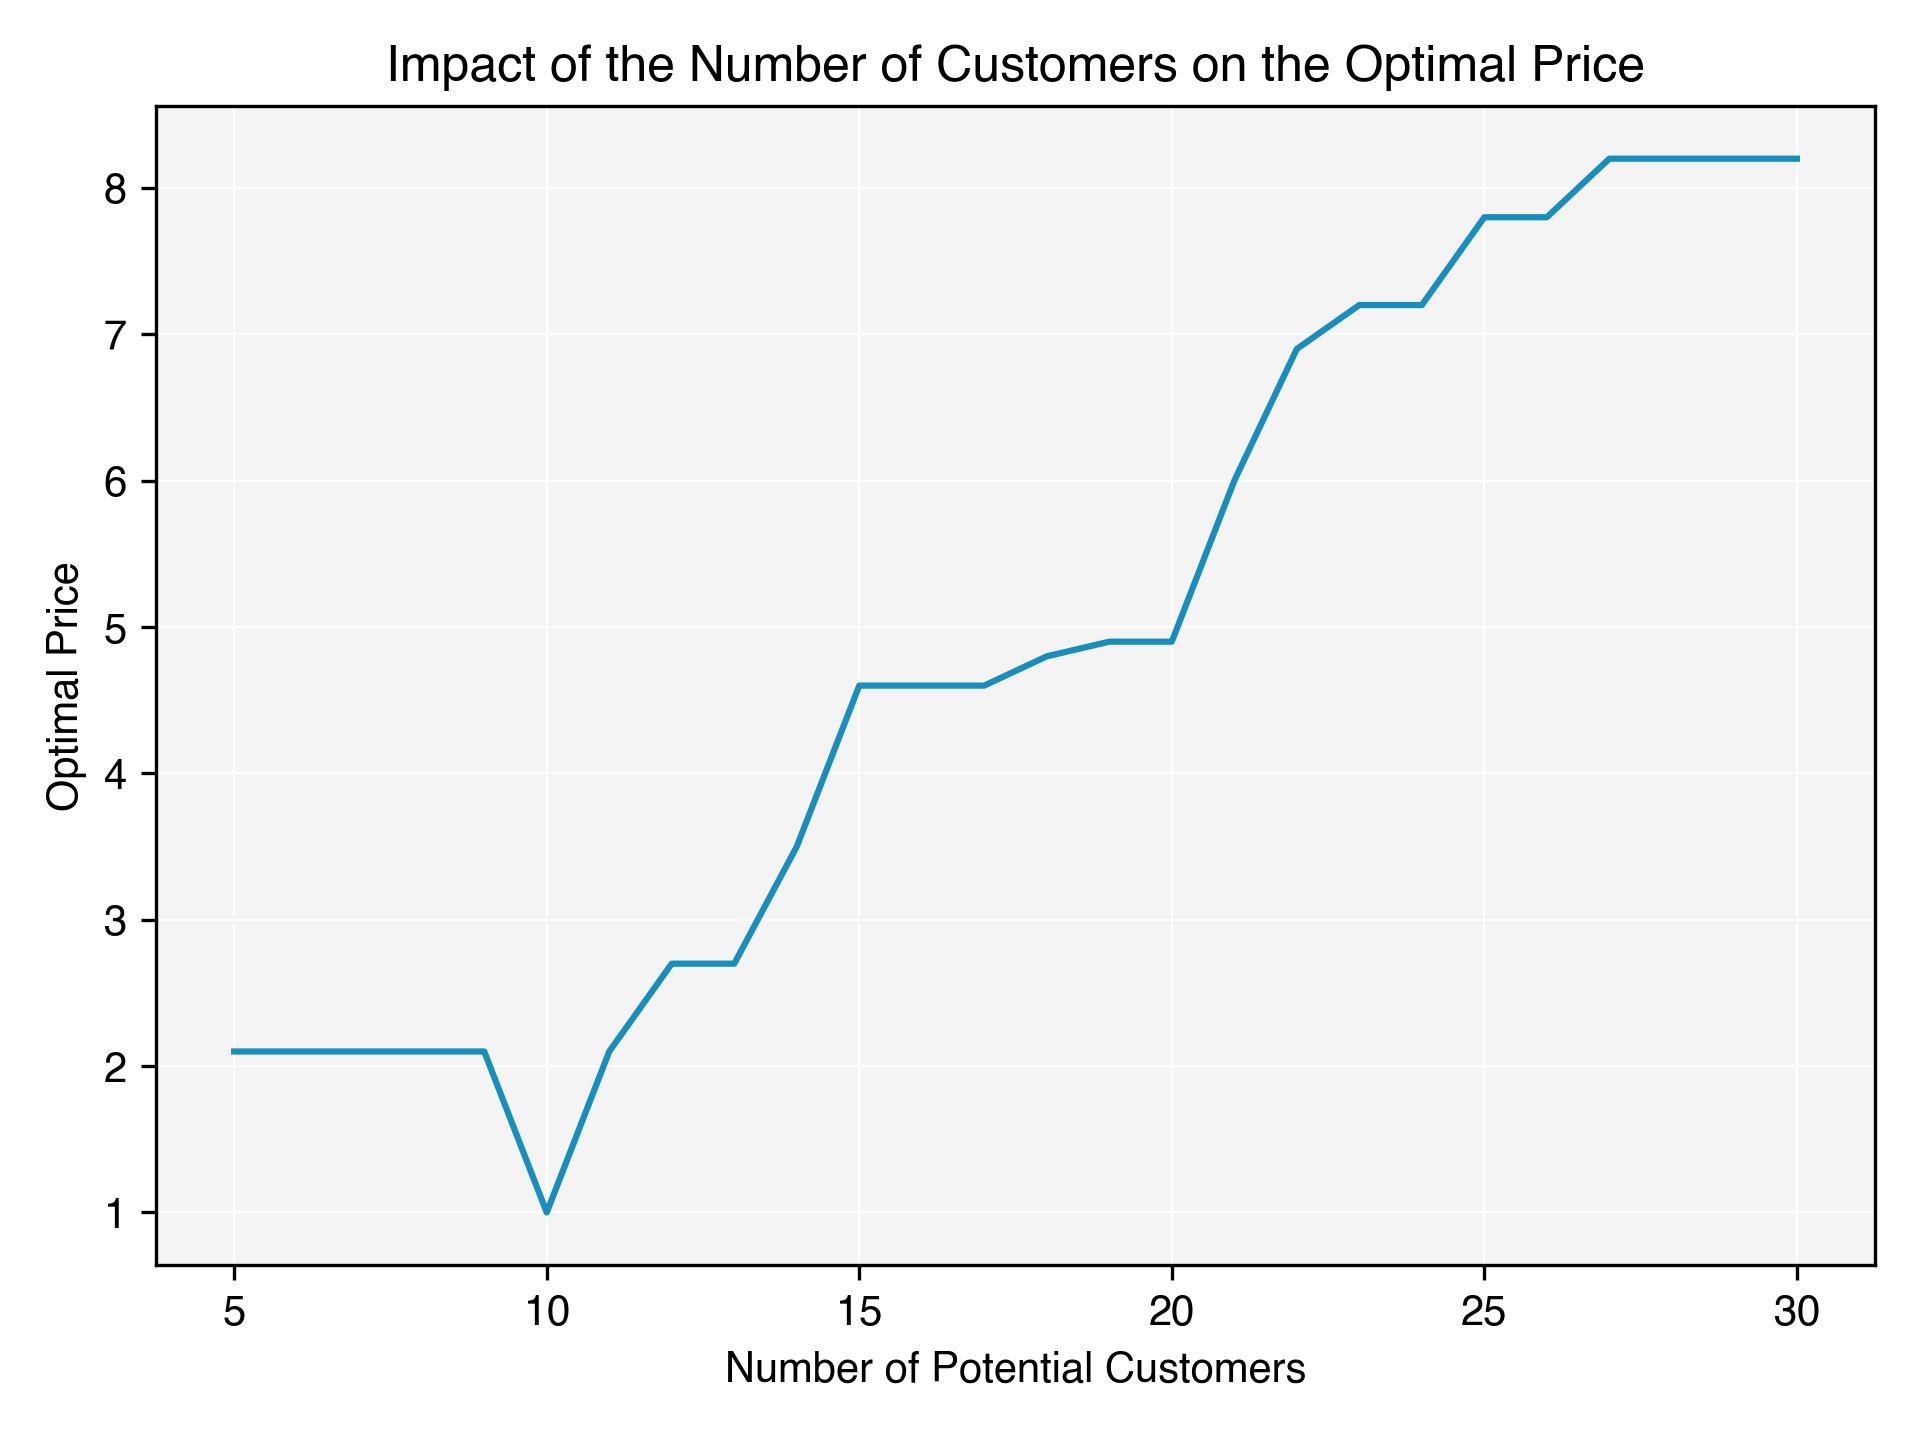
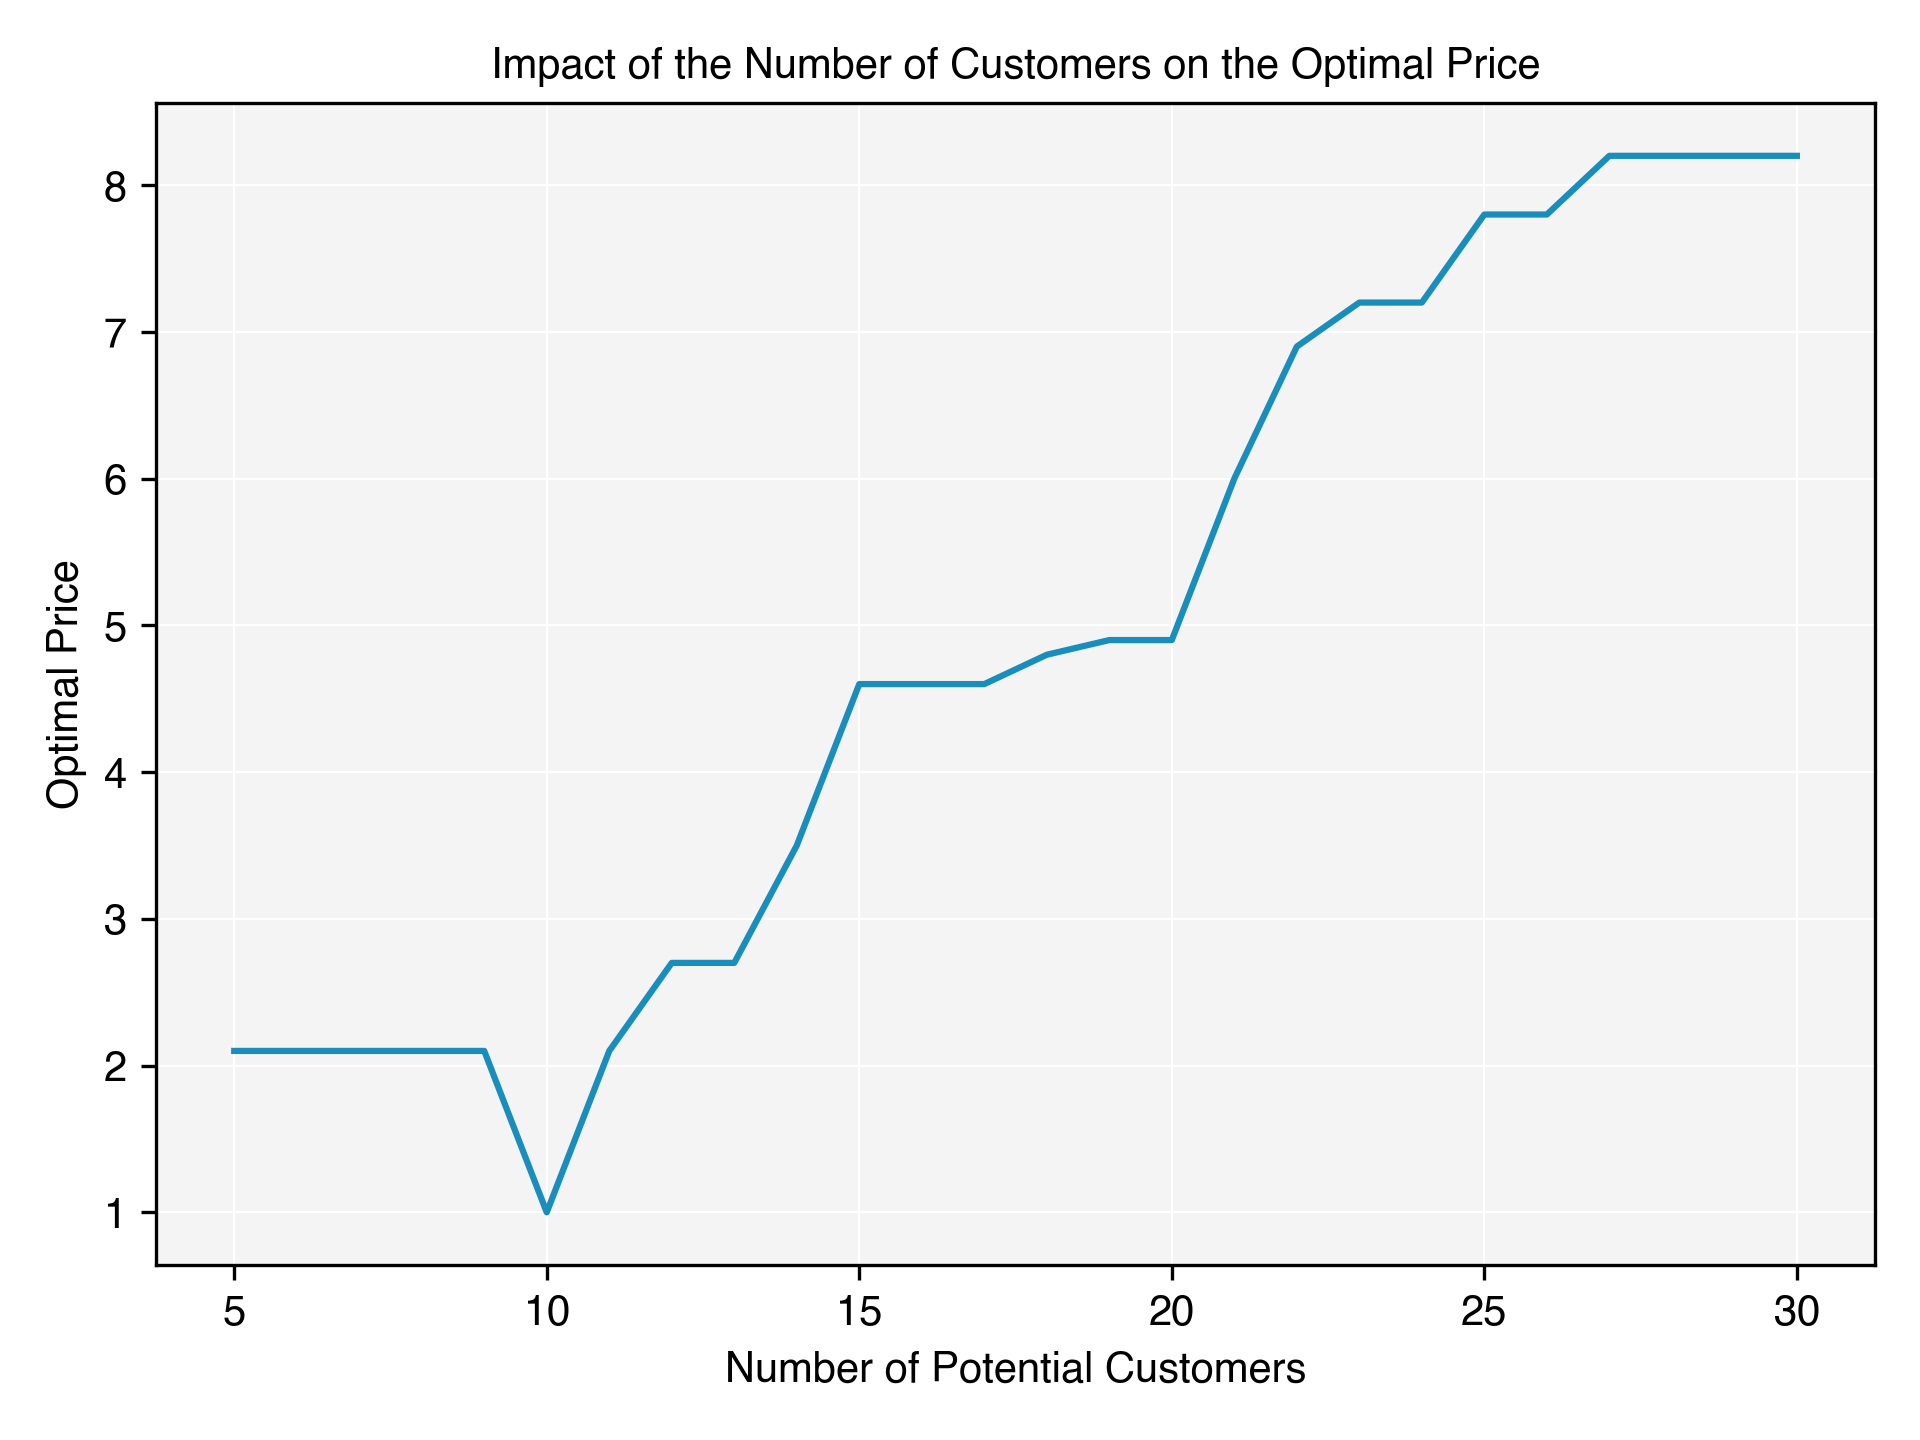
Feat: Added custom CSS

diff --git a/.voila/custom.css b/.voila/custom.css
@@ -1,0 +1,6 @@
+/* Center the entire notebook content */
+.container {
+    max-width: 800px;
+    margin: auto;
+    padding-top: 30px;
+}
